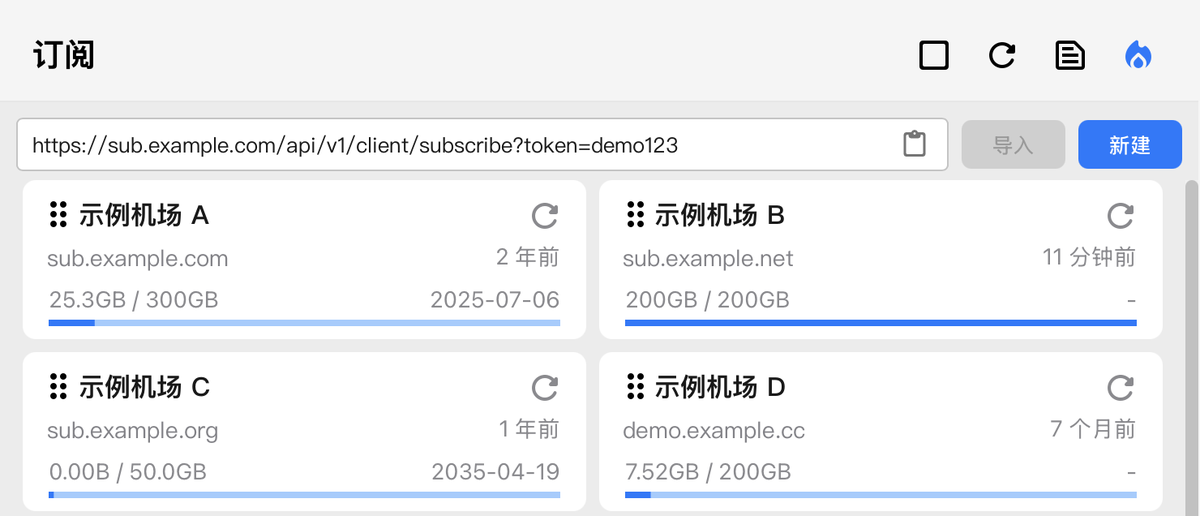
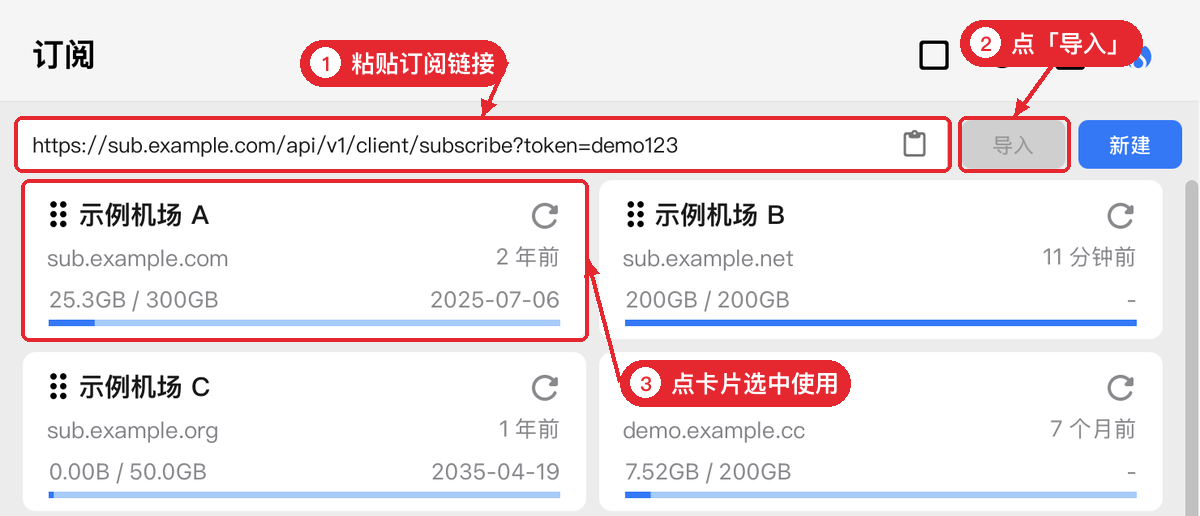
CC Switch 教程新增「统一 Codex 会话历史」章节，两篇教程截图加红色步骤标注

Changed region(s): [[0.0, 0.062, 0.8942, 0.8062], [0.8017, 0.031, 0.9558, 0.155]]

diff --git a/docs/spider/collection/clash.md b/docs/spider/collection/clash.md
@@ -10,7 +10,7 @@ keywords: "Clash,Clash Verge,订阅导入,全局模式,规则模式,系统代理
 
 下面以 Clash Verge 为例，Windows 和 macOS 界面基本一样。
 
-> 文中截图里的机场名称、订阅链接都是演示数据。
+> 文中截图里的机场名称、订阅链接都是演示数据。截图上的红色编号和方框，对应正文里的操作步骤。
 
 ## 第一步：导入订阅
 
